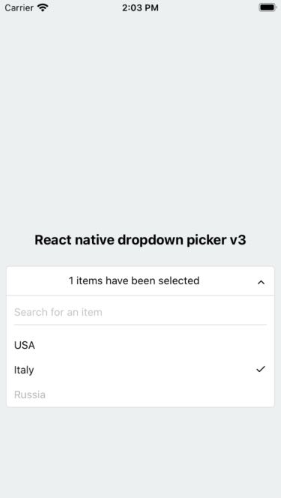
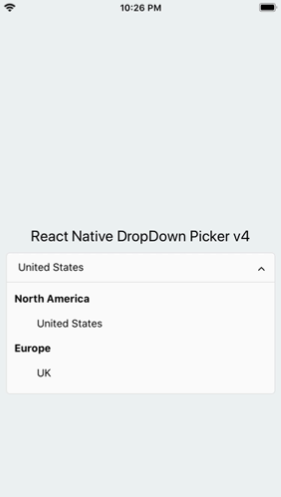
Update screenshots.

diff --git a/README.md b/README.md
@@ -38,8 +38,8 @@ https://github.com/oblador/react-native-vector-icons
 
 ## Getting Started
 
-![Screenshot](https://raw.githubusercontent.com/hossein-zare/react-native-dropdown-picker/3.x/screenshots/1.png)
-![Screenshot](https://raw.githubusercontent.com/hossein-zare/react-native-dropdown-picker/3.x/screenshots/2.png)
+![Screenshot](https://raw.githubusercontent.com/hossein-zare/react-native-dropdown-picker/4.x/screenshots/1.png)
+![Screenshot](https://raw.githubusercontent.com/hossein-zare/react-native-dropdown-picker/4.x/screenshots/2.png)
 
 ### Installation
 
@@ -491,7 +491,7 @@ There are 14 props to style the component.
 
 1. The selected item
 
-   ![RTL Support](https://raw.githubusercontent.com/hossein-zare/react-native-dropdown-picker/3.x/screenshots/rtl-1.png)
+   ![RTL Support](https://raw.githubusercontent.com/hossein-zare/react-native-dropdown-picker/4.x/screenshots/rtl-1.png)
 
    ```javascript
    style={{
@@ -504,7 +504,7 @@ There are 14 props to style the component.
 
 2. The dropdown items
 
-   ![RTL Support](https://raw.githubusercontent.com/hossein-zare/react-native-dropdown-picker/3.x/screenshots/rtl-2.png)
+   ![RTL Support](https://raw.githubusercontent.com/hossein-zare/react-native-dropdown-picker/4.x/screenshots/rtl-2.png)
 
    ```javascript
    itemStyle={{
